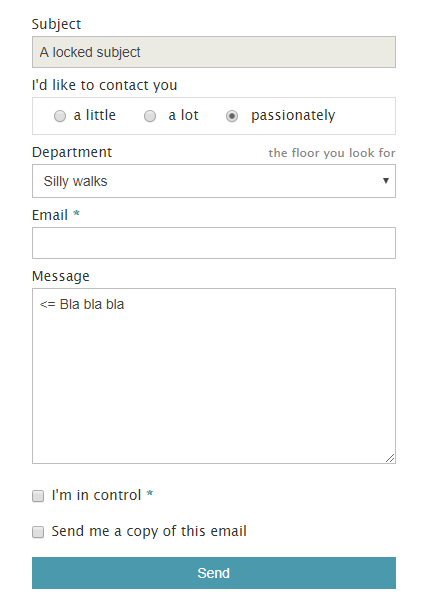
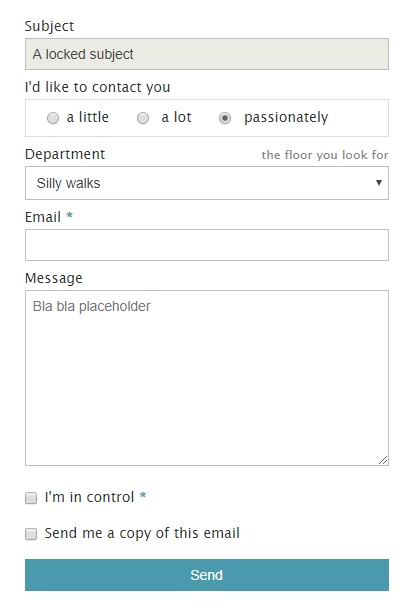
fix example field placeholder
♪ "you forgot your own syntax, dumbass" ♫

Changed region(s): [[0.0581, 0.031, 0.9588, 0.9935]]

diff --git a/README.md b/README.md
@@ -38,7 +38,7 @@ Follow the [syntax] to create custom forms.
     radio "I'd like to contact you" = a little | a lot |: passionately,
     select "Department" (the floor you look for) = Silly walks :| Strange things,
     email!,
-    message <= Bla bla bla,
+    message =< Bla bla placeholder,
     checkbox! "I'm in control",
     askcopy
 %)
